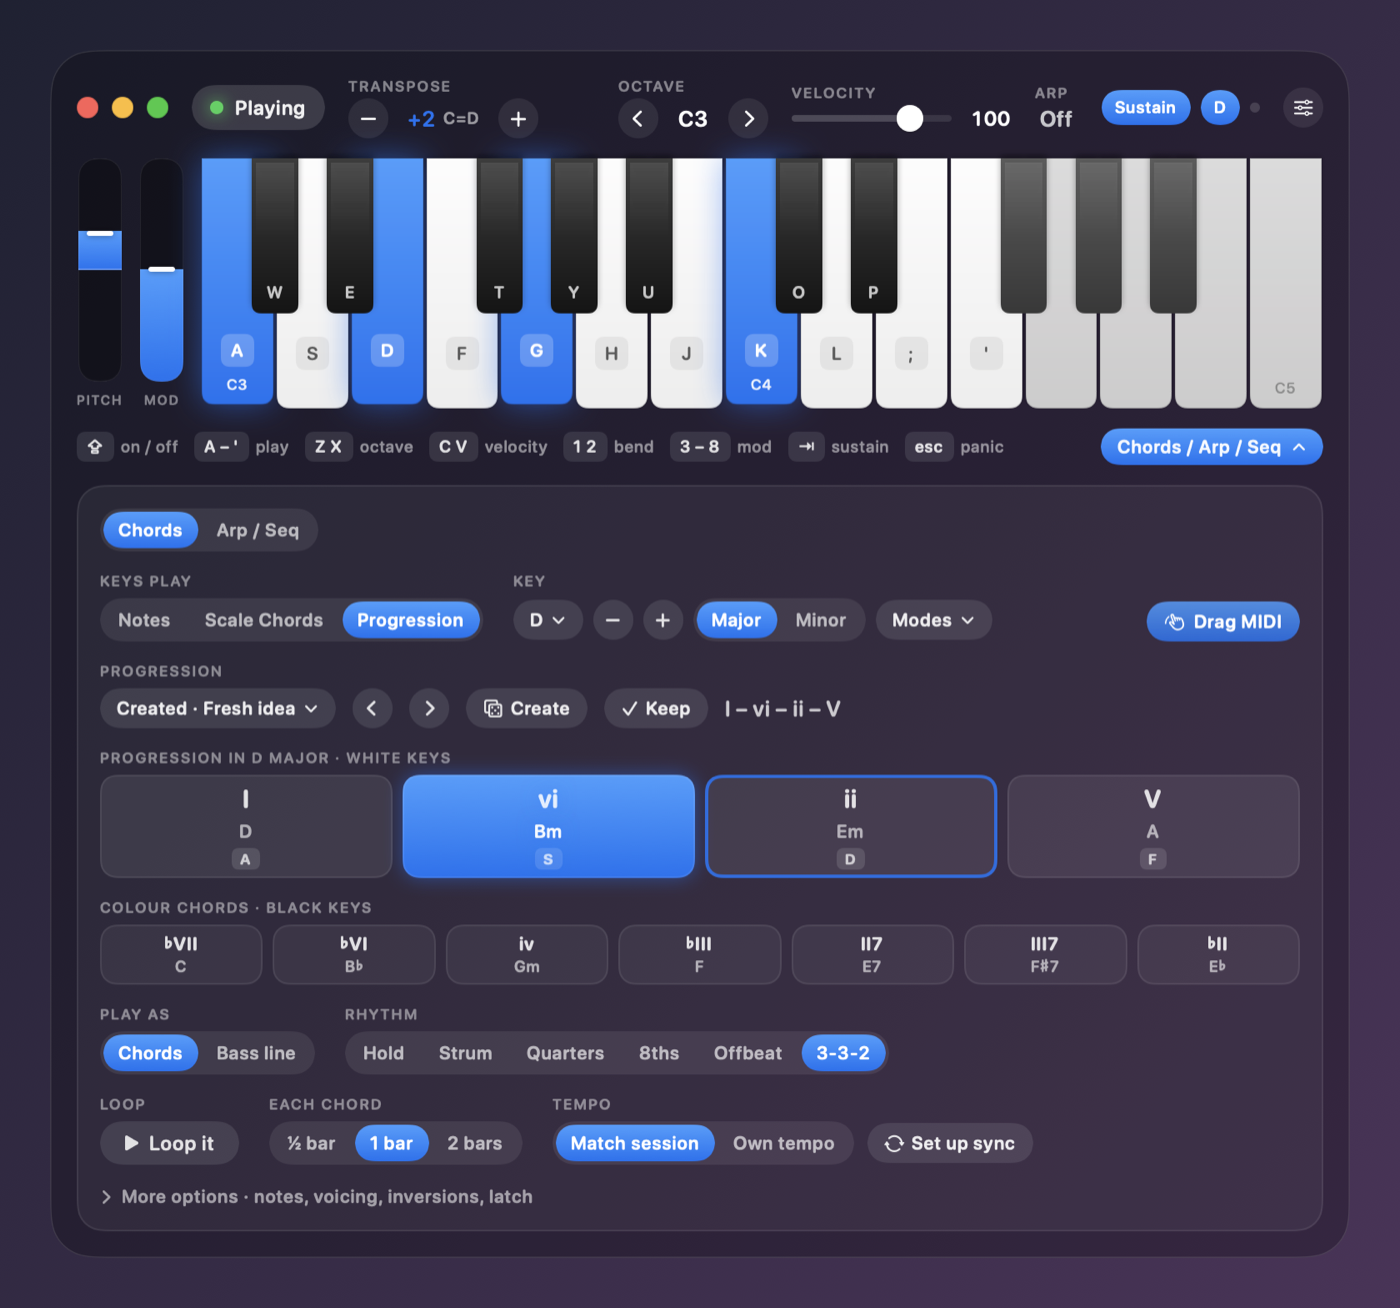
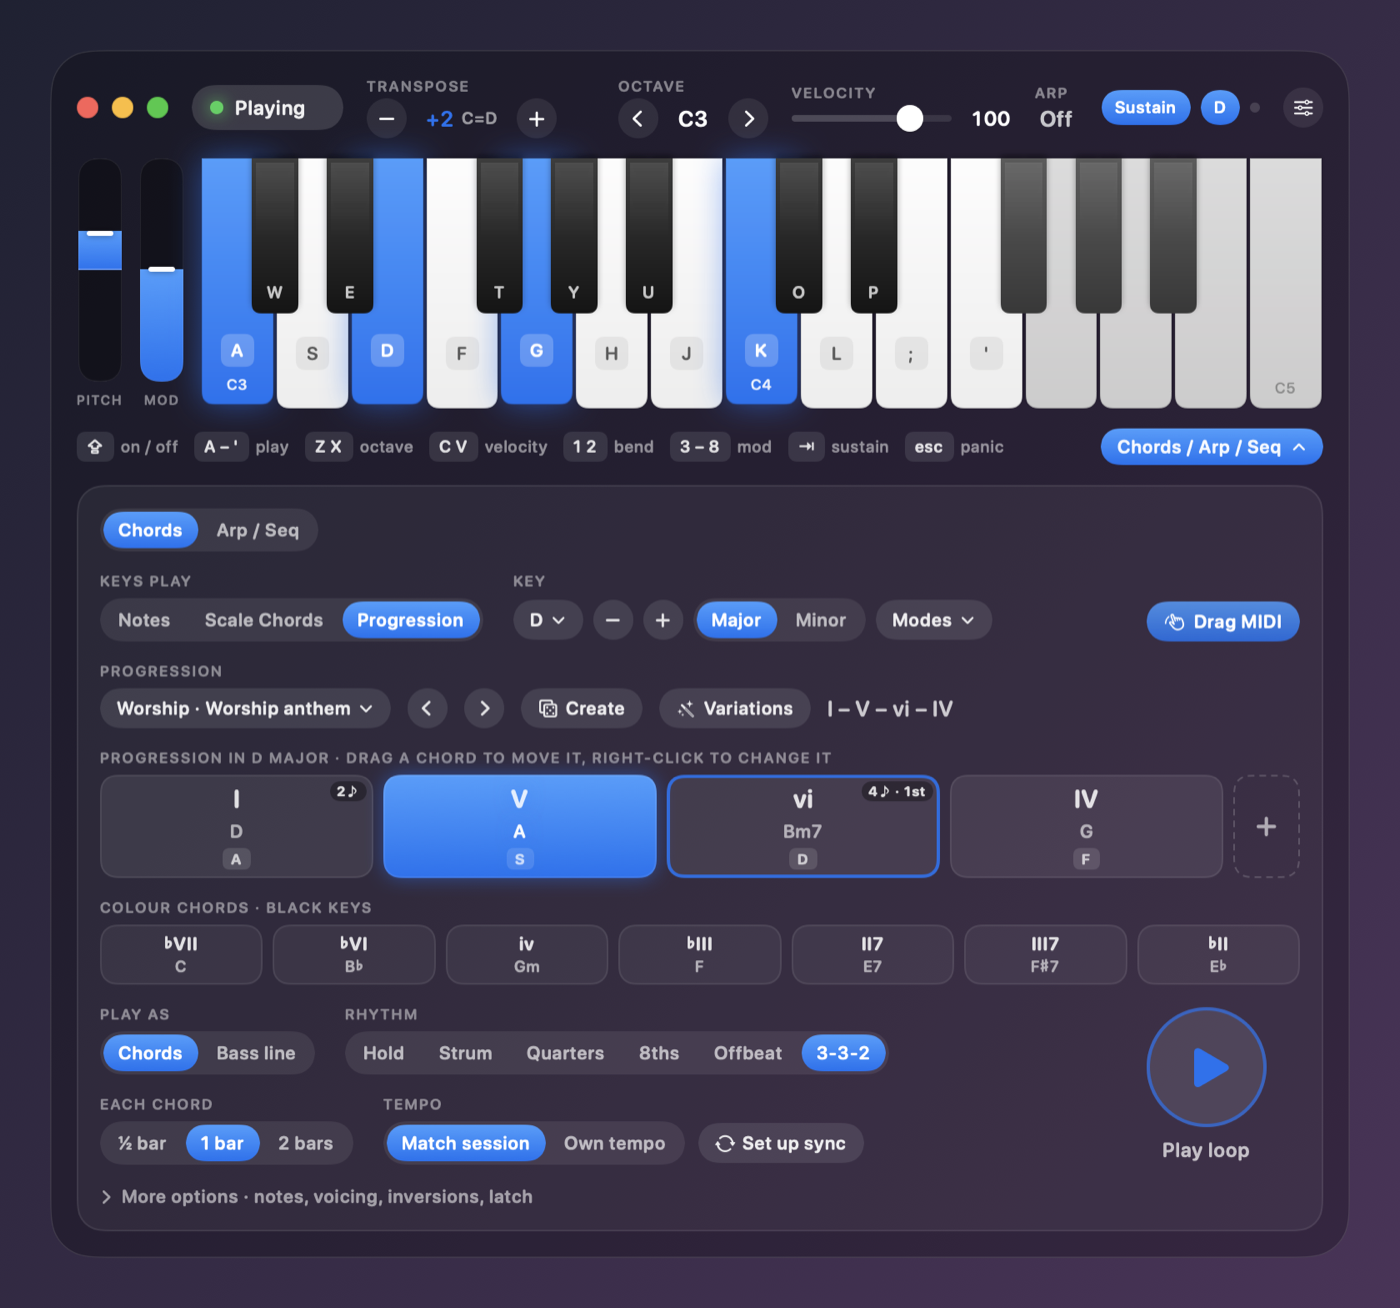
New Chords screenshot with the big Play loop button

diff --git a/index.html b/index.html
@@ -218,7 +218,7 @@ footer { border-top: 1px solid var(--card-line); padding: 28px 0 40px; color: va
           <li>Transpose in half steps and keep playing C shapes</li>
         </ul>
       </div>
-      <div class="media"><img src="img/chords.png" alt="The Ivory Keys Chords drawer: key and progression pickers with Create, chord pads for each key, rhythm, loop and tempo controls" loading="lazy" width="1400" height="1308"></div>
+      <div class="media"><img src="img/chords.png" alt="The Ivory Keys Chords drawer: key and progression pickers with Create, chord pads you can drag to reorder, rhythm and tempo controls, and a big round Play loop button" loading="lazy" width="1400" height="1308"></div>
     </div>
   </section>
 
